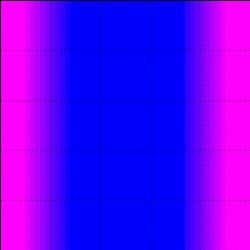
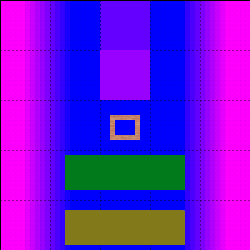
refactor: examples

diff --git a/crates/oc_examples/src/bin/test_projectile_wall.rs b/crates/oc_examples/src/bin/test_projectile_wall.rs
@@ -1,3 +1,7 @@
+use bevy::prelude::*;
+use oc_battle_gui::{ingame::FirstIngameEnter, network::output::ToServerEvent, states::Game};
+use oc_network::ToServer;
+
 #[cfg(feature = "test")]
 use {
     oc_examples::tests::wall,
@@ -5,14 +9,42 @@ use {
     oc_mod::Mod,
     oc_physics::Event,
     oc_projectile::{ProjectileId, spawn::SpawnProjectile},
-    oc_root::end::End,
     oc_world_server::state::ObjectId,
     std::path::PathBuf,
     std::time::Duration,
 };
 
+const TIMEOUT: Duration = Duration::from_secs(5);
+
 #[cfg(feature = "test")]
 fn main() -> Result<(), Box<dyn std::error::Error>> {
+    // TODO: precise conditions wich permit exit before timeout (ohysics event for example)
+    let tracker = wall::run(Some(Box::new(install))).unwrap();
+    let physics = tracker.take().physics.clone();
+
+    assert_eq!(
+        physics,
+        vec![Event::Collision(
+            ObjectId::Projectile(ProjectileId(0)),
+            ObjectId::Tile(WorldTileIndex(44))
+        )]
+    );
+
+    Ok(())
+}
+
+fn install(app: &mut bevy::app::App) {
+    app.add_systems(bevy::app::Update, end)
+        .add_observer(on_first_ingame_enter);
+}
+
+fn end(mut commands: Commands, game: Res<Game>) {
+    if game.started.elapsed() > TIMEOUT {
+        commands.write_message(bevy::app::AppExit::from_code(1)); // TODO: have codes (x = timeout)
+    }
+}
+
+fn on_first_ingame_enter(_: On<FirstIngameEnter>, mut commands: Commands) {
     let mod_ = Mod::load(&PathBuf::from("mods/std1"), None).unwrap();
 
     let weapon = mod_
@@ -30,30 +62,15 @@ fn main() -> Result<(), Box<dyn std::error::Error>> {
         .iter()
         .find(|s| s.name() == "Single")
         .unwrap();
-    let projectiles = vec![SpawnProjectile::new(
+
+    for spawn in vec![SpawnProjectile::new(
         weapon.index(),
         ammunition.index(),
         shot.index(),
         1,
         [0., 0., 15.],
         [50., 50., 15.],
-    )];
-
-    // TODO: precise conditions wich permit exit before timeout (ohysics event for example)
-    let end = End::new(Some(Duration::from_secs(5)));
-    let tracker = wall::run(projectiles, end).unwrap();
-    let physics = tracker.take().physics.clone();
-
-    assert_eq!(
-        physics,
-        vec![Event::Collision(
-            ObjectId::Projectile(ProjectileId(0)),
-            ObjectId::Tile(WorldTileIndex(44))
-        )]
-    );
-
-    Ok(())
+    )] {
+        commands.trigger(ToServerEvent(ToServer::SpawnProjectile(spawn)));
+    }
 }
-
-#[cfg(not(feature = "test"))]
-fn main() {}

diff --git a/crates/oc_examples/src/run.rs b/crates/oc_examples/src/run.rs
@@ -5,10 +5,6 @@ use std::{
 
 use anyhow::Context;
 use bon::Builder;
-#[cfg(feature = "test")]
-use oc_projectile::spawn::SpawnProjectile;
-#[cfg(feature = "test")]
-use oc_root::end::End;
 use oc_root::{files::Files, static_::StaticSource};
 use oc_world::{load::WorldPath, meta::Meta};
 use oc_world_server::config::ServerConfig;
@@ -23,19 +19,16 @@ type Result_ = Result<Tracker, anyhow::Error>;
 #[cfg(not(feature = "test"))]
 type Result_ = Result<(), anyhow::Error>;
 
-#[derive(Debug, Builder)]
+#[derive(Builder)]
 pub struct Example {
     mod_: PathBuf,
     world: PathBuf,
     snapshot: PathBuf,
-    #[cfg(feature = "test")]
-    projectiles: Vec<SpawnProjectile>,
-    #[cfg(feature = "test")]
-    end: Option<End>,
+    install: Option<Box<dyn Fn(&mut bevy::app::App)>>,
 }
 
 impl Example {
-    pub fn run(&self) -> Result_ {
+    pub fn run(self) -> Result_ {
         let cache = PathBuf::from("assets/cache_");
         let files = Files::new("".to_string(), "".to_string()).into_server(cache.clone());
         std::fs::create_dir_all(files.mods())
@@ -93,14 +86,13 @@ impl Example {
         tracing::info!("Start gui");
         let server_rx2 = Arc::new(Mutex::new(server_rx2));
         let connect = oc_battle_gui::config::Connect::Embedded(client_tx2, server_rx2);
-        #[cfg(feature = "test")]
-        let projectiles = self.projectiles.clone();
         let config = oc_battle_gui::config::Config_::builder().autoconnect(connect);
-        #[cfg(feature = "test")]
-        let config = config.projectiles(projectiles).maybe_end(self.end.clone());
         let config = config.build();
 
-        oc_battle_gui::run::run(config);
+        oc_battle_gui::run::run()
+            .config(config)
+            .maybe_install(self.install)
+            .call();
 
         #[cfg(feature = "test")]
         {

diff --git a/crates/oc_examples/src/tests/wall.rs b/crates/oc_examples/src/tests/wall.rs
@@ -6,8 +6,7 @@ use crate::{
 };
 use anyhow::Context;
 use oc_mod::Mod;
-use oc_projectile::spawn::SpawnProjectile;
-use oc_root::{WorldConfig, end::End, physics::Meters};
+use oc_root::{WorldConfig, physics::Meters};
 use oc_world::{load::WorldPath, meta::Meta, reader};
 #[cfg(feature = "test")]
 use oc_world_server::tracker::Tracker;
@@ -19,7 +18,7 @@ type Result_ = Result<Tracker, Box<dyn std::error::Error>>;
 type Result_ = Result<(), Box<dyn std::error::Error>>;
 
 // TODO: its ugly to give directly the projectiles
-pub fn run(_projectiles: Vec<SpawnProjectile>, _end: End) -> Result_ {
+pub fn run(install: Option<Box<dyn Fn(&mut bevy::app::App)>>) -> Result_ {
     logging::setup_logging()?;
 
     let mod_ = Mod::load(&PathBuf::from("mods/std1"), None)?;
@@ -36,13 +35,13 @@ pub fn run(_projectiles: Vec<SpawnProjectile>, _end: End) -> Result_ {
     let snapshot =
         SnapshotBuilder::new(map, EmptyGenerator::new(), EmptyGenerator::new()).build(w, &mod_)?;
 
-    let example = run::Example::builder()
+    let result = run::Example::builder()
         .world(map_)
         .mod_(PathBuf::from("mods/std1"))
-        .snapshot(snapshot);
-    #[cfg(feature = "test")]
-    let example = example.projectiles(_projectiles).end(_end);
-    let result = example.build().run()?;
+        .maybe_install(install)
+        .snapshot(snapshot)
+        .build()
+        .run()?;
 
     Ok(result)
 }

diff --git a/crates/oc_battle_gui/src/run.rs b/crates/oc_battle_gui/src/run.rs
@@ -2,14 +2,13 @@ use bevy::audio::{AudioPlugin, SpatialScale};
 use bevy::prelude::*;
 use bevy::sprite_render::Wireframe2dPlugin;
 use bevy_egui::EguiPlugin;
+use bon::builder;
 use oc_root::Wcfg;
 
 use crate::config::{Config, Config_};
 #[cfg(feature = "debug")]
 use crate::debug;
 use crate::states::Game;
-#[cfg(feature = "test")]
-use crate::tests;
 use crate::{
     downloading::DownloadingPlugin,
     error::ErrorPlugin,
@@ -29,7 +28,8 @@ const AUDIO_SCALE: f32 = 1. / 100.0;
 #[cfg(feature = "debug")]
 use debug::DebugPlugin;
 
-pub fn run(config: Config_) -> AppExit {
+#[builder]
+pub fn run(config: Config_, install: Option<Box<dyn Fn(&mut App)>>) -> AppExit {
     let mut app = App::new();
 
     app.add_plugins(
@@ -69,11 +69,12 @@ pub fn run(config: Config_) -> AppExit {
     .insert_resource(Config(config))
     .add_systems(Startup, setup::setup);
 
+    if let Some(install) = install {
+        install(&mut app);
+    }
+
     #[cfg(feature = "debug")]
     app.add_plugins(DebugPlugin);
-
-    #[cfg(feature = "test")]
-    app.add_plugins(tests::TestsPlugin);
 
     tracing::info!("Start app");
     app.run()

diff --git a/crates/oc_examples/src/bin/example_height.rs b/crates/oc_examples/src/bin/example_height.rs
@@ -1,12 +1,9 @@
 use std::path::PathBuf;
 
 use anyhow::Context;
-use oc_examples::{
-    logging, run,
-    snapshot::{EmptyGenerator, SnapshotBuilder},
-};
+use oc_battle_gui::ingame::FirstIngameEnter;
+use oc_examples::{logging, run, snapshot::SnapshotBuilder};
 use oc_mod::Mod;
-use oc_projectile::Projectile;
 use oc_root::{WorldConfig, physics::Meters};
 use oc_world::meta::Meta;
 
@@ -28,8 +25,14 @@ fn main() -> Result<(), Box<dyn std::error::Error>> {
     let example = run::Example::builder()
         .world(PathBuf::from("examples/height"))
         .mod_(PathBuf::from("mods/std1"))
+        .install(Box::new(setup))
         .snapshot(snapshot);
+
     let _ = example.build().run()?;
 
     Ok(())
+}
+
+fn setup(app: &mut bevy::app::App) {
+    println!("Hello world");
 }

diff --git a/crates/oc_battle_gui/src/config.rs b/crates/oc_battle_gui/src/config.rs
@@ -9,10 +9,6 @@ use std::{
 use bevy::prelude::*;
 use bon::Builder;
 use oc_network::ToServer;
-#[cfg(feature = "test")]
-use oc_projectile::spawn::SpawnProjectile;
-#[cfg(feature = "test")]
-use oc_root::end::End;
 use oc_root::files::Connection;
 
 use crate::network::input::NetworkMessage;
@@ -20,10 +16,6 @@ use crate::network::input::NetworkMessage;
 #[derive(Debug, Clone, Default, Builder)]
 pub struct Config_ {
     pub autoconnect: Option<Connect>,
-    #[cfg(feature = "test")]
-    pub projectiles: Vec<SpawnProjectile>,
-    #[cfg(feature = "test")]
-    pub end: Option<End>,
 }
 
 #[derive(Debug, Clone)]

diff --git a/crates/oc_battle_gui/src/ingame/height.rs b/crates/oc_battle_gui/src/ingame/height.rs
@@ -269,8 +269,8 @@ fn on_spawn(
 
             let xy = TileXy::from_(*i, w);
             let (x, y) = (
-                xy.0.0 * w.geo_pixels_per_tile,
-                xy.0.1 * w.geo_pixels_per_tile,
+                xy.0.0 * w.geo_pixels_per_tile + w.geo_pixels_per_tile / 2,
+                xy.0.1 * w.geo_pixels_per_tile + w.geo_pixels_per_tile / 2,
             );
             let z = tile.z_pixels(w);
             let alpha = nature.opacity.min(0.5);

diff --git a/crates/oc_battle_gui/src/ingame/mod.rs b/crates/oc_battle_gui/src/ingame/mod.rs
@@ -9,7 +9,7 @@ use crate::{
         height::HeightPlugin,
         individual::IndividualPlugin,
         input::{client::on_to_client, keyboard::on_key_press},
-        lov::{Lov, LovPlugin, on_despawn_lov, on_spawn_lov, update_lov},
+        lov::LovPlugin,
         projectile::ProjectilePlugin,
         region::on_listening_region,
         world::{

diff --git a/crates/oc_battle_gui/src/lib.rs b/crates/oc_battle_gui/src/lib.rs
@@ -13,8 +13,6 @@ pub mod projectile;
 pub mod run;
 pub mod setup;
 pub mod states;
-#[cfg(feature = "test")]
-pub mod tests;
 #[cfg(feature = "debug")]
 pub mod tileset;
 pub mod utils;

diff --git a/crates/oc_battle_gui/src/ingame/lov.rs b/crates/oc_battle_gui/src/ingame/lov.rs
@@ -32,6 +32,7 @@ pub struct SpawnLovConfig {
 impl Default for SpawnLovConfig {
     fn default() -> Self {
         Self {
+            #[cfg(feature = "debug")]
             click: LovClickMode::DraggedClick,
             start_pluz_z: DEFAULT_HUMAN_DEFAULT_STAND_UP_FIRE_METERS,
             stop_pluz_z: Meters(0.),